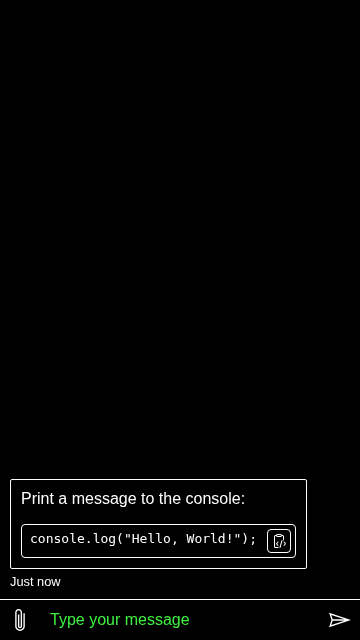
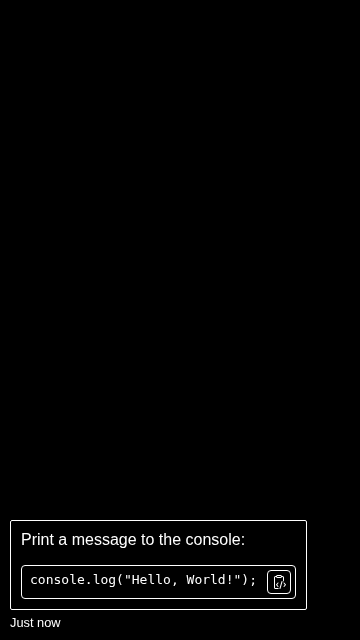
Hide the send box in the code block forced colors test

Changed region(s): [[0.0, 0.75, 0.8556, 1.0], [0.9167, 0.9375, 0.9472, 1.0]]

diff --git a/__tests__/html2/markdown/codeBlockCopyButton/forcedColors.html b/__tests__/html2/markdown/codeBlockCopyButton/forcedColors.html
@@ -57,7 +57,11 @@
         );
 
         const { directLine, store } = testHelpers.createDirectLineEmulator();
-        const webChatElement = createElement(ReactWebChat, { directLine, store });
+        const webChatElement = createElement(ReactWebChat, {
+          directLine,
+          store,
+          styleOptions: { hideSendBox: true }
+        });
         const themedElement = variant
           ? createElement(FluentThemeProvider, { variant }, webChatElement)
           : webChatElement;
